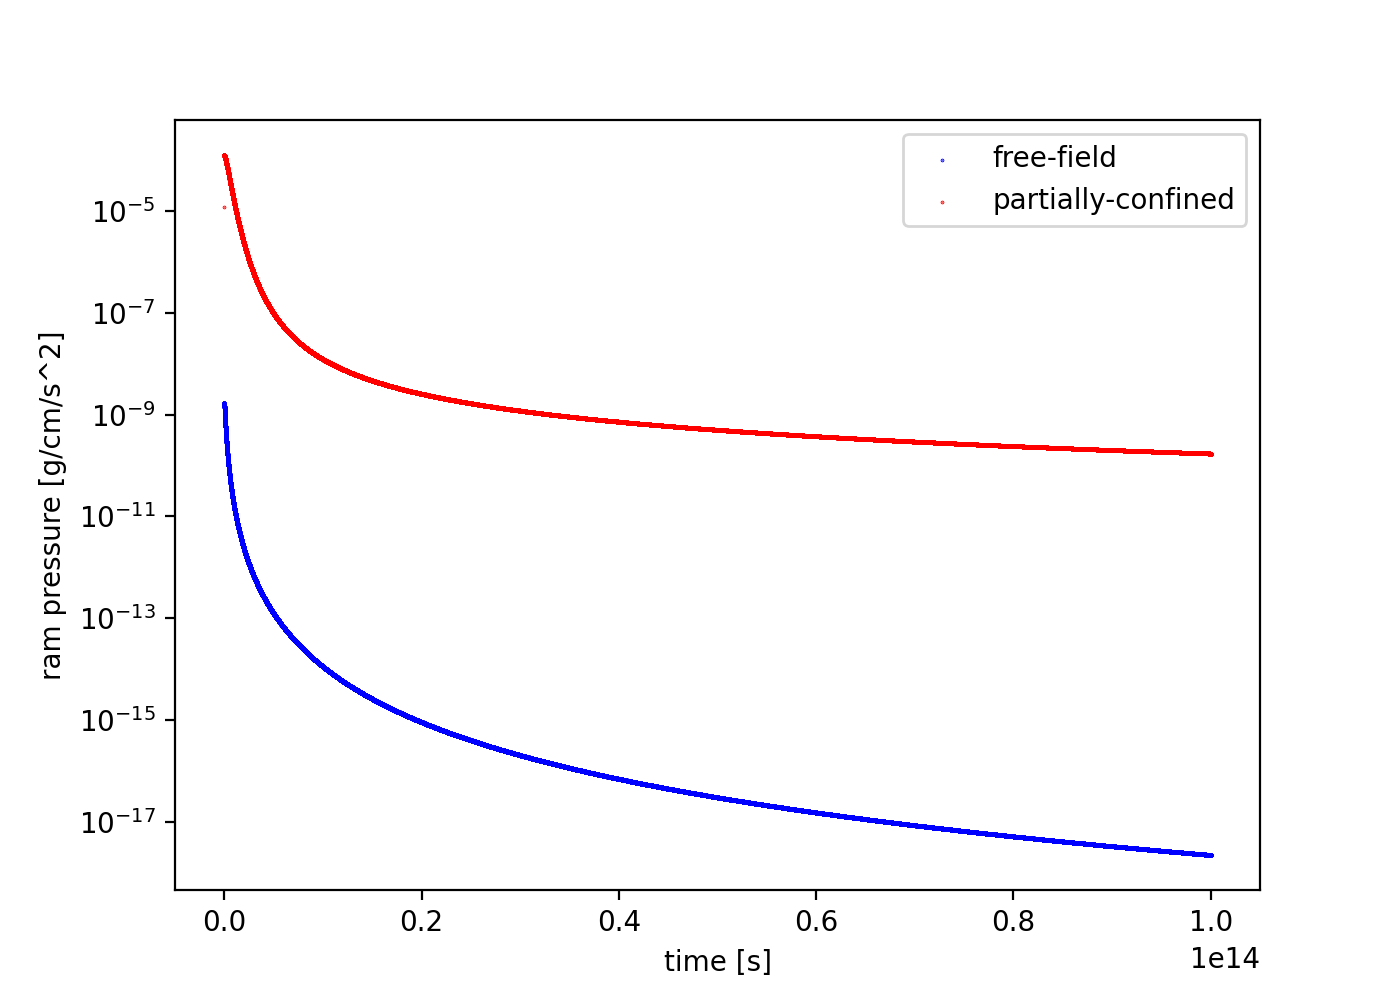
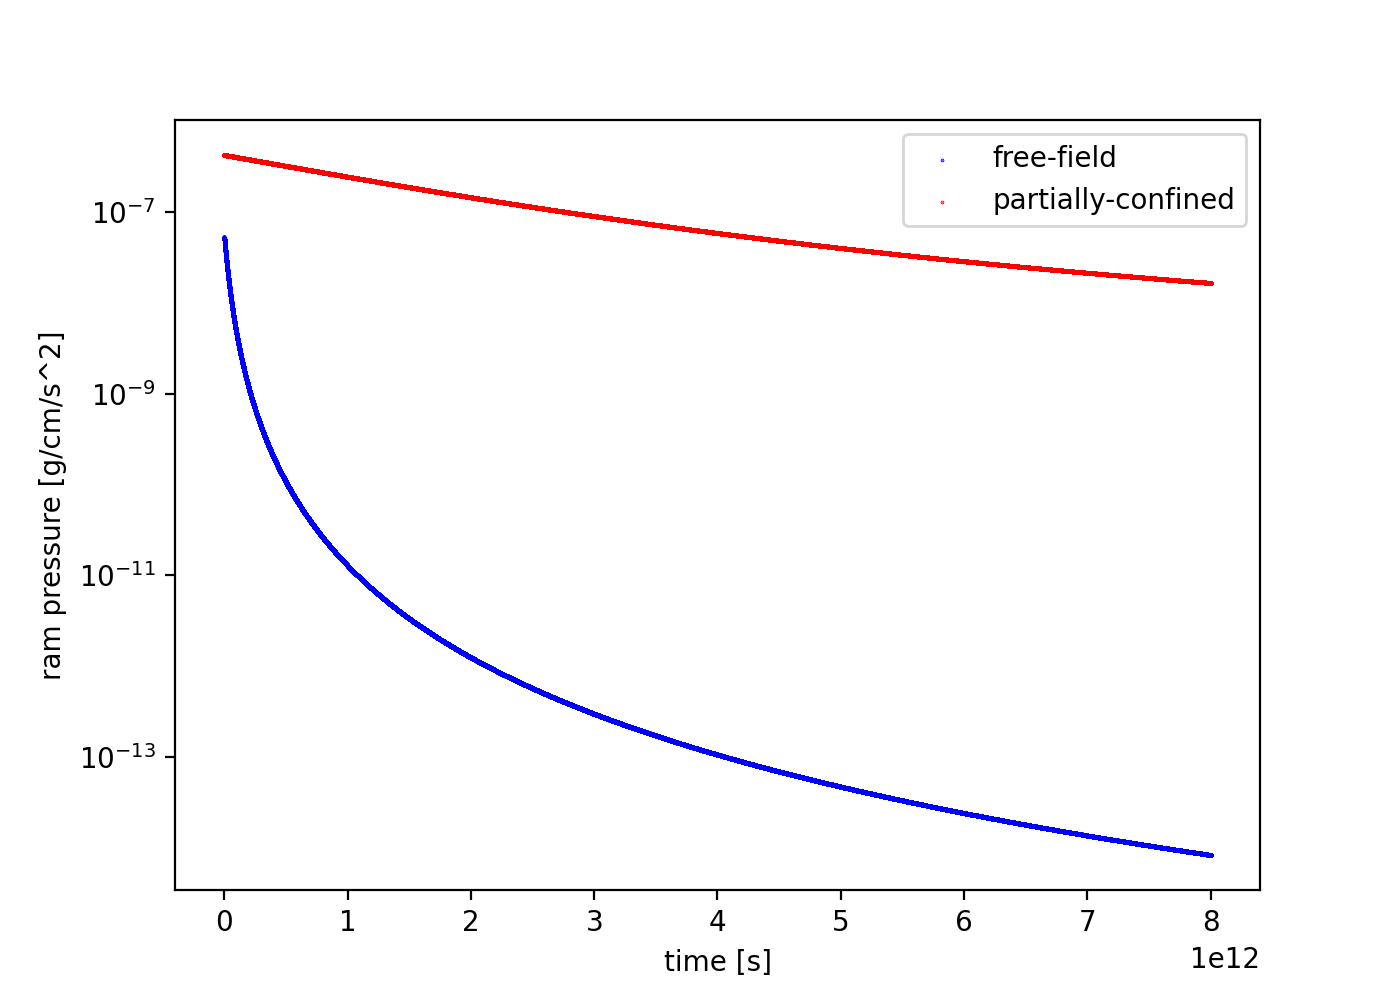
new models

diff --git a/python_scripts/analytical_models/freefield_vented_sn_model.py b/python_scripts/analytical_models/freefield_vented_sn_model.py
@@ -12,47 +12,54 @@ plot_velocity = True
 plot_thermp = True 
 plot_ramp = True 
 
-# Sedov is a self-similar solution, here we'll put everything in cgs units 
-
 gamma = 5/3                     # adiabatic index 
 G = 6.672041e-8                 # gravitational constant 
+gmw = 1.29                      # mean molecular weight 
+kboltz = 1.38066e-16            # boltzmann constant 
+mass_proton_cgs = 1.6726e-24    # proton mass 
 
-t_end = 1.0E+14                 # sim end time 
-dt = 1E8                        # timestep 
 
-r_detect = 25. *3.086e+18       # location of detector 
+def get_pressure(rho,temp):
+    u = kboltz * temp / (gmw*mass_proton_cgs*(gamma-1))
+    p = rho*(gamma-1)*u
+    return p 
+
+
+# Sedov is a self-similar solution, here we'll put everything in cgs units 
+
+t_end = 8.0E12                  # sim end time 
+dt = 1E7                        # timestep 
+
+r_detect = 8. *3.086e+18        # location of detector 
 
 r_sn = 0.1 *3.086e+18           # SN ejecta radius 
 E_sn = 1e51                     # SN energy 
 m_sn = 25.0 *1.989e+33          # SN ejecta mass 
 vol_sn = 4/3*np.pi*r_sn**3      # volume occupied by SN ejecta 
 
-r_cloud = 24.41 *3.086e+18      # Cloud radius 
+r_cloud = 10. *3.086e+18        # Cloud radius 
 rho_cloud = 1e-21               # density of cloud around HII region/cavity
-p_cloud = 3.34E-12              # pressure of cloud around HII region/cavity
+p_cloud = get_pressure(rho_cloud,1e1)
 
-r_stag = 10. *3.086e+18         # HII region stagnation radius 
+r_stag = 4. *3.086e+18          # HII region stagnation radius 
 p_hii = p_cloud * 10**(-3*gamma/(1-gamma))          # pressure of HII region from adiabatic relations 
 rho_hii = rho_cloud * (p_hii/p_cloud) * 10**(-3)    # density of HII region from ideal gas law  
 #rho_hii = 3.16e-17   # from adiabatic relation
 #p_hii = 2.01e-5      # from ideal gas law
-rho_hii = 1e-19 
-p_hii = 6.40e-8 
+rho_hii = 1e-23
+p_hii = get_pressure(rho_hii,1e4)
 
-#rho_hii = 1e-22     # slightly emptied cavity
-#p_hii = 6.4e-7      # HII region at 1E8 K (2nd equil temp)
-
-rho_inshell = 1.5e-19           # density within swept-up shell 
-dr_inshell = 2.0 *3.086e+18     # thickness of shell 
+rho_inshell = 1e-19             # density within swept-up shell 
+dr_inshell = 0.6 *3.086e+18     # thickness of shell 
 
 rho_env = 4e-25                 # density of envelope 
-p_env = 2.54e-14                # pressure of envelope
+p_env = get_pressure(rho_env,1e3)
 
-#rho_env = 4e-24                # testing
-#p_env = 2.54e-13               # testing 
+rho_ffbg = 1e-23                # Medium density for free-field case 
+p_ffbg = get_pressure(rho_ffbg,1e3)
 
-omega = 4*np.pi*0.2             # solid angle of channell in Sr
-sout_fac = 1 #2
+omega = 4*np.pi*0.1             # solid angle of channell in Sr
+sout_fac = 1 
 expand_sout = False
 
 
@@ -68,8 +75,6 @@ expand_sout = False
  Suppose SN shock shell already reached r_detect. 
 '''
 def free_field_sn(ax1,ax2,ax3):
-
-    global rho_env, p_env
 
     place_in_HIIregion = False
     place_in_cloud = False
@@ -92,34 +97,34 @@ def free_field_sn(ax1,ax2,ax3):
 
     while (t < t_end): 
 
+        global rho_ffbg, p_ffbg
+
         if (place_in_HIIregion == True):
             if (r_shell < r_stag):
-                rho_env = rho_hii
-                p_env = p_hii
+                rho_ffbg = rho_hii
+                p_ffbg = p_hii
                 print('in HII') 
             elif (r_shell < r_stag+dr_inshell): 
-                rho_env = rho_inshell 
-                p_env = p_inshell
+                rho_ffbg = rho_inshell 
+                p_ffbg = p_inshell
                 print('in shell')
             elif (r_shell < r_cloud):
-                rho_env = rho_cloud
-                p_env = p_cloud 
+                rho_ffbg = rho_cloud
+                p_ffbg = p_cloud 
         elif (place_in_cloud == True):
             if (r_shell < r_cloud):
-                rho_env = rho_cloud 
-                p_env = p_cloud 
+                rho_ffbg = rho_cloud 
+                p_ffbg = p_cloud 
 
         # Update shell radius as it expands 
-        v_shell = 2/5 * (1.17)**(5/2) * (E_sn/rho_env)**(1/2) * r_shell**(-3/2)  # sedov sol 
-#        v_shell = 1/4 * (1.17)**(-2) * (momen_shell/rho_env) * r_shell**(-3)   # snowplough
+        v_shell = 2/5 * (1.17)**(5/2) * (E_sn/rho_ffbg)**(1/2) * r_shell**(-3/2)  # sedov sol 
+#        v_shell = 1/4 * (1.17)**(-2) * (momen_shell/rho_ffbg) * r_shell**(-3)   # snowplough
         r_shell = r_shell + v_shell*dt 
         
         # Properties immediately behind shock according to Sedov equations
-        v_shell = 2/5 * (1.17)**(5/2) * (E_sn/rho_env)**(1/2) * r_shell**(-3/2)
-#        v_shell = 1/4* (1.17)**(-2) * (momen_shell/rho_env) * r_shell**(-3)
-#        p_shell = 3/25 * (1.17)**5 * E_sn * r_shell**(-3)
-#        rho_shell = (1.17/r_shell)**5 * E_sn * t**2
-        cs = np.sqrt(gamma*p_env/rho_env)
+        v_shell = 2/5 * (1.17)**(5/2) * (E_sn/rho_ffbg)**(1/2) * r_shell**(-3/2)
+#        v_shell = 1/4* (1.17)**(-2) * (momen_shell/rho_ffbg) * r_shell**(-3)
+        cs = np.sqrt(gamma*p_ffbg/rho_ffbg)
         mach = v_shell/cs
         
         # Properties within shocked region 
@@ -129,8 +134,8 @@ def free_field_sn(ax1,ax2,ax3):
         c = (2*gamma+10)/(gamma-7)
         d = (2*gamma**2+7*gamma-3)/(gamma-7)
         v_detect = v_shell * (r_fac/gamma + ((gamma-1)/(gamma**2+gamma)) * r_fac**a)
-        rho_detect = rho_env * (gamma+1)/(gamma-1)*r_fac**b/gamma**c*(gamma+1-r_fac**(a-1))**c
-        p_detect = p_env * mach**2 * (2*gamma**(1-d))/(gamma+1) * (gamma+1-r_fac**(a-1))**d
+        rho_detect = rho_ffbg * (gamma+1)/(gamma-1)*r_fac**b/gamma**c*(gamma+1-r_fac**(a-1))**c
+        p_detect = p_ffbg * mach**2 * (2*gamma**(1-d))/(gamma+1) * (gamma+1-r_fac**(a-1))**d
         ramp_detect = rho_detect * v_detect**2
         
         # Energy passing through area s_out at r_detect within dt 
@@ -189,7 +194,7 @@ def part_confined_sn(with_HII,expand_cav,ax1,ax2,ax3):
     
     if (with_HII):
         p_cav = (p_hii/(gamma-1)*(vol_cav-vol_sn) + E_sn) * (gamma-1)/vol_cav
-        m_cav = m_sn + rho_hii*(vol_cav-vol_sn)
+        m_cav = m_sn + rho_hii*(vol_cav-vol_sn)   
         E_cav = E_sn + p_hii/(gamma-1)*(vol_cav-vol_sn)
     else: 
         p_cav = E_sn * (gamma-1)/vol_cav
@@ -200,6 +205,10 @@ def part_confined_sn(with_HII,expand_cav,ax1,ax2,ax3):
     vel_cav = (6*p_cav/rho_inshell)**(1/2)      # velocity by dimension analysis 
     rho_vent = rho_env*(p_cav/p_env)**(1/gamma) # poisson adiabate 
     e_mload = E_cav/m_cav                       # mass loading 
+
+    print('e_mload',e_mload)
+    print('initial rho p cav',rho_vent,p_cav)
+    print('initial m_cav r_cav vol_cav',m_cav,r_cav,vol_cav)
 
     # Store 
     r_cavi = r_cav 
@@ -216,13 +225,17 @@ def part_confined_sn(with_HII,expand_cav,ax1,ax2,ax3):
     t = 0.
     etot = 0.               # accumulated energy passing through s_out 
     mtot = 0.               # accumulated mass
+    niter = 0
+
+    method_1 = True
+    method_2 = False 
 
     while(t < t_end): 
         # Update velocity of escaping gas
         v_out = np.sqrt(2*gamma/(gamma-1)*p_env/rho_env*(((p_cav)/p_env)**((gamma-1)/gamma)-1))  # bernoulli
 
         # Update mass contained within cavity 
-        dmdt = rho_vent * v_out * s_out 
+        dmdt = rho_env * v_out * s_out 
         m_cav = m_cav - dmdt*dt 
 
         if (expand_cav):
@@ -234,11 +247,20 @@ def part_confined_sn(with_HII,expand_cav,ax1,ax2,ax3):
             r_cav = r_cav + vel_cav*dt 
  
         vol_cav = 4/3*np.pi*r_cav**3 
-        
-        rho_vent = m_cav/vol_cav 
-        p_cav = p_env*(rho_vent/rho_env)**gamma  # poisson adiabate 
+
+        if (method_1):                                                     ##### GO ON WITH TRYING THIS ##### 
+            p_cav = e_mload * (gamma-1) * m_cav/vol_cav
+            rho_vent = rho_env*(p_cav/p_env)**(1/gamma)
+        elif (method_2):
+            rho_vent = m_cav/vol_cav 
+            p_cav = p_env*(rho_vent/rho_env)**gamma  # poisson adiabate 
+
         ramp_vent = rho_vent * v_out**2
     
+        if (niter == 0):
+            print('first rho p cav',rho_vent,p_cav)
+            print('first m_cav r_cav vol_cav',m_cav,r_cav,vol_cav)
+
         # Energy passing through the vent of area s_out within dt
         m_box = rho_vent * s_out * v_out * dt 
         e_box = m_box * e_mload 
@@ -257,7 +279,8 @@ def part_confined_sn(with_HII,expand_cav,ax1,ax2,ax3):
             vel_cav_evol.append(vel_cav)
             r_cav_evol.append(r_cav)
         
-    
+        niter += 1
+
     if (plot_velocity):
         ax1.scatter(time,v_vent_evol,s=0.1,color='red',label='partially-confined')
 
